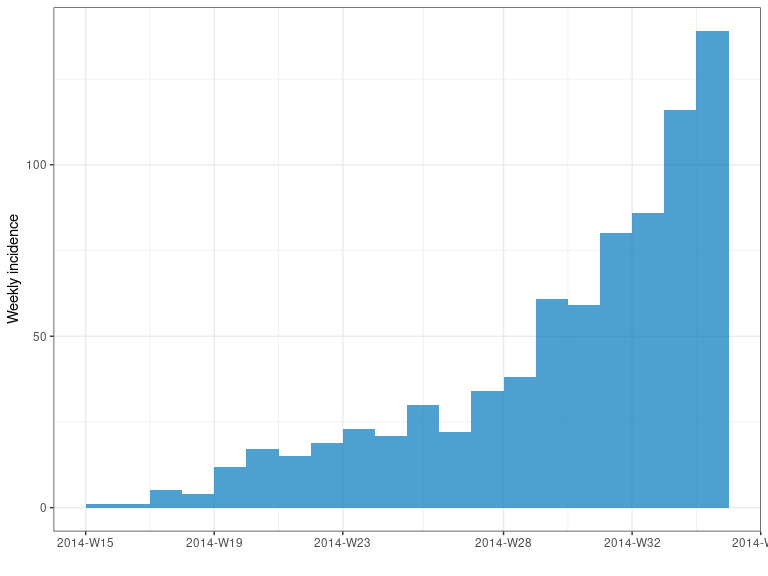
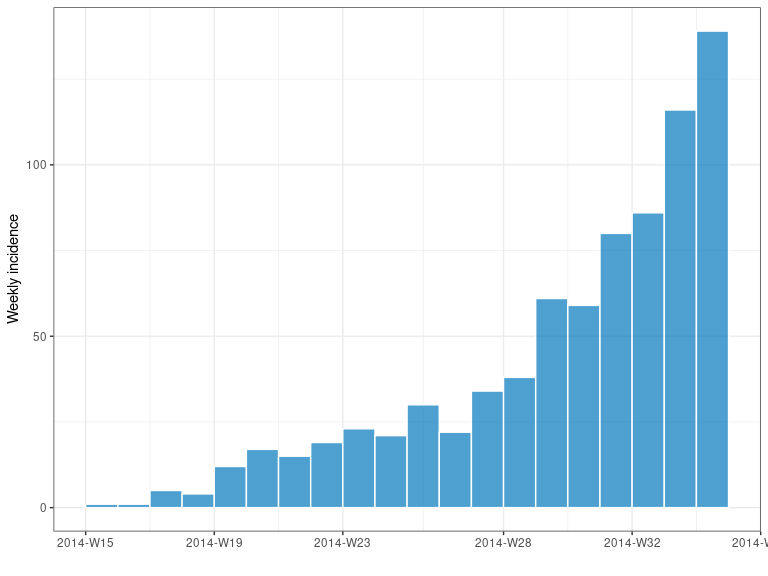
added border to plot in README

diff --git a/README.md b/README.md
@@ -271,7 +271,7 @@ and columns. For instance, to keep only the first 20 weeks of the
 epidemic:
 
 ``` r
-plot(i_7[1:20, ])
+plot(i_7[1:20, ], color = "white")
 ```
 
 ![](figs/start-1.png)<!-- -->
